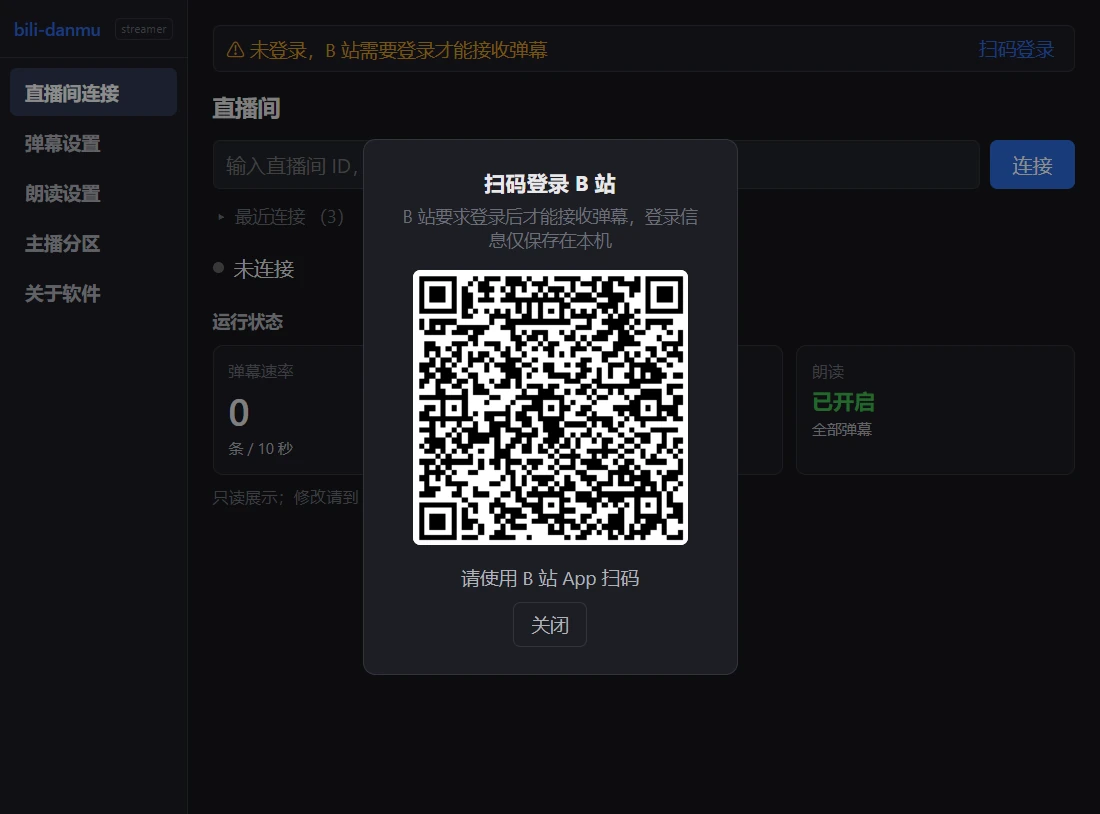
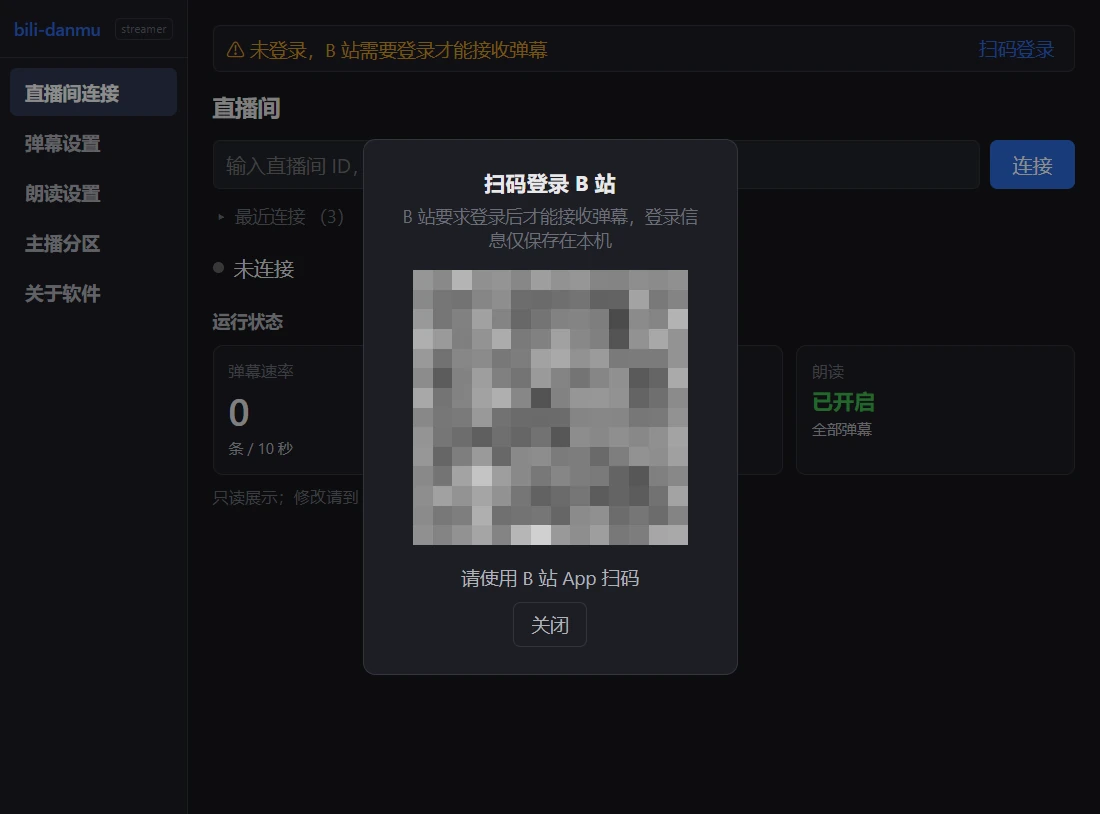
📝 扫码登录配图里的二维码打马赛克
二维码是有时效的登录凭证：图片会长期留在 README 里，不该公开一个「看起来能用」的登录码。
按亮度定位二维码白底区域（x 413..687 / y 270..544）后做马赛克，其它内容（昵称、房间号、在榜观众）都是公开信息，不动。
README 配图说明同步注明「图中二维码已打码」。

Changed region(s): [[0.3709, 0.3071, 0.6491, 0.6757]]

diff --git a/README.md b/README.md
@@ -59,7 +59,7 @@
   <img src="./imgs/弹幕设置.webp" width="49%" alt="弹幕设置">
 </p>
 
-<p align="center">左：扫码登录（登录信息只存本机）　右：字号、行距、字体、背景不透明度、测试弹幕</p>
+<p align="center">左：扫码登录（登录信息只存本机；图中二维码已打码）　右：字号、行距、字体、背景不透明度、测试弹幕</p>
 
 <p align="center">
   <img src="./imgs/朗读设置.webp" width="49%" alt="朗读设置">
